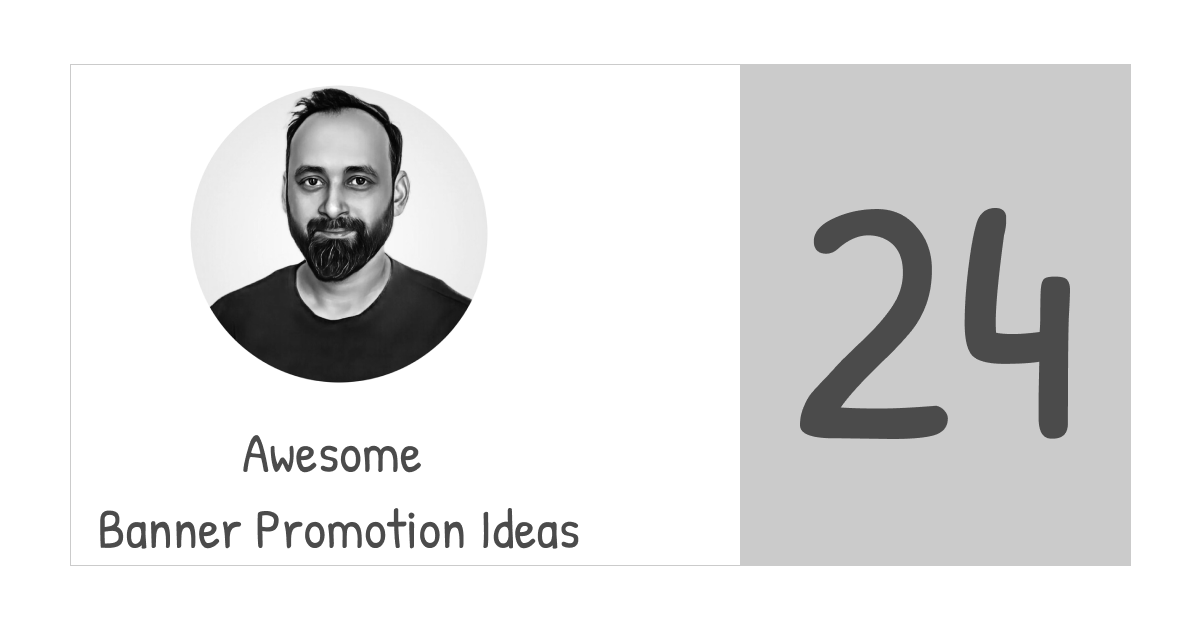
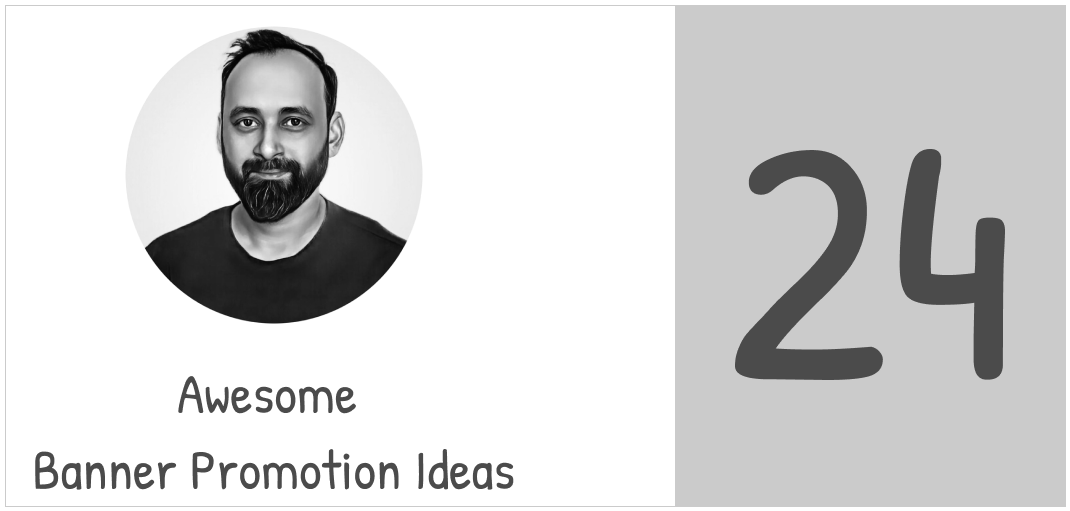
update hero blog image alignment

diff --git a/24-social-media-ideas/index.htm b/24-social-media-ideas/index.htm
@@ -211,12 +211,12 @@
 
     </section>
 
-    <section class="container-fluid blog-hero mt-5 rounded" style="background: url('image21.png') no-repeat center center;">
-
-
-
-    </section>
-
+    <!-- <section class="container-fluid blog-hero mt-5 rounded" style="background: url('image21.png') no-repeat  center;">
+    </section> -->
+ 
+   <section class="container">
+    <img src="image21.png" alt="Binod Majhi" class="img-fluid mb-5 blog-single-image">
+   </section>
 
     <!-- main blog section -->
 
